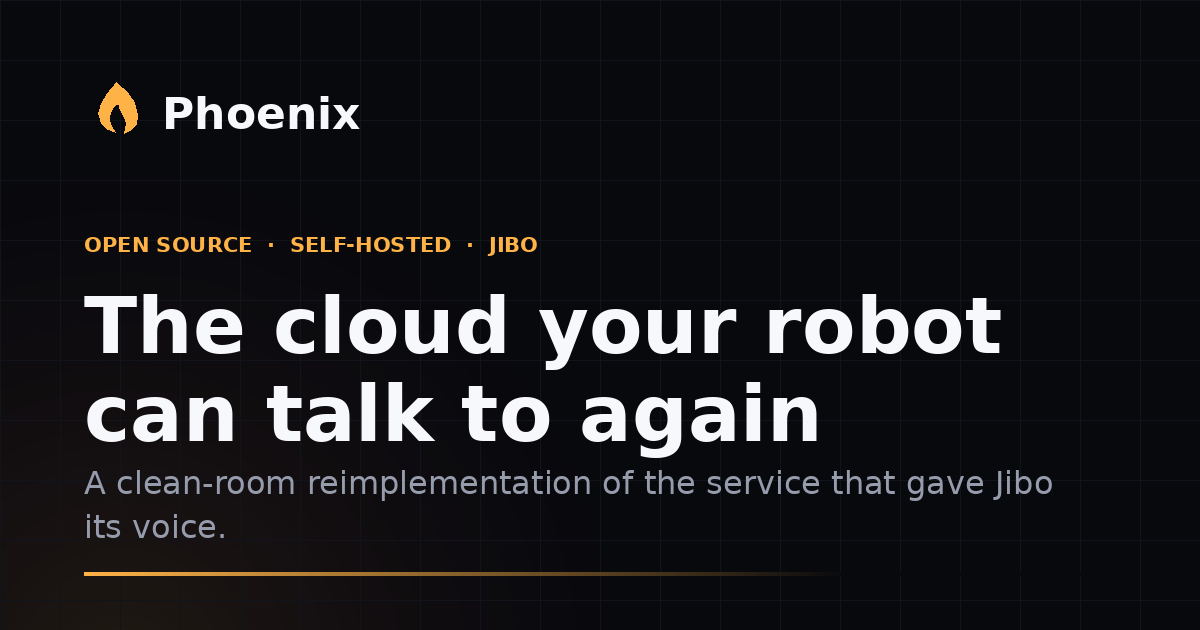
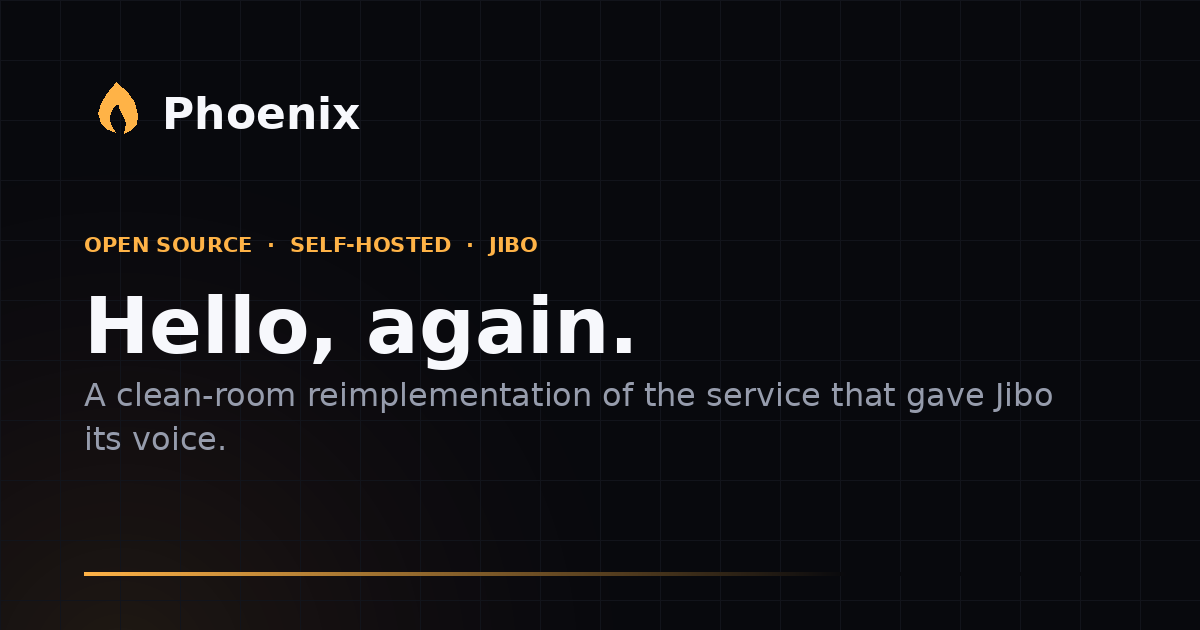
Refresh portal branding and social card to Hello, again.

Changed region(s): [[0.0617, 0.4524, 0.8942, 0.7841], [0.0617, 0.8143, 0.185, 0.8746]]

diff --git a/packages/account/portal/index.html b/packages/account/portal/index.html
@@ -1,9 +1,9 @@
 <!DOCTYPE html>
-<html lang="en" data-title-template="%s — the cloud your robot can talk to again" data-brand-description>
+<html lang="en" data-title-template="%s — Hello, again." data-brand-description>
 <head>
 <meta charset="utf-8" />
 <meta name="viewport" content="width=device-width, initial-scale=1, viewport-fit=cover" />
-<title>Phoenix — the cloud your robot can talk to again</title>
+<title>Phoenix — Hello, again.</title>
 <meta name="color-scheme" content="dark light" />
 <link rel="icon" href="/assets/favicon.svg" type="image/svg+xml" />
 <link rel="manifest" href="/manifest.webmanifest" />
@@ -31,21 +31,21 @@
 
 <meta property="og:type" content="website" />
 <meta property="og:site_name" content="Phoenix" />
-<meta property="og:title" content="Phoenix — the cloud your robot can talk to again" />
+<meta property="og:title" content="Phoenix — Hello, again." />
 <meta property="og:description" content="A clean-room reimplementation of the cloud service that gave Jibo its voice. Open source, self-hosted, and running on hardware you own." />
 <meta property="og:url" content="%SITE_URL%/" />
-<meta property="og:image" content="%SITE_URL%/assets/og.png" />
+<meta property="og:image" content="%SITE_URL%/assets/og.png?v=hello-again" />
 <meta property="og:image:type" content="image/png" />
 <meta property="og:image:width" content="1200" />
 <meta property="og:image:height" content="630" />
-<meta property="og:image:alt" content="Phoenix — the cloud your robot can talk to again" />
+<meta property="og:image:alt" content="Phoenix — Hello, again." />
 <meta property="og:locale" content="en_US" />
 
 <meta name="twitter:card" content="summary_large_image" />
-<meta name="twitter:title" content="Phoenix — the cloud your robot can talk to again" />
+<meta name="twitter:title" content="Phoenix — Hello, again." />
 <meta name="twitter:description" content="A clean-room reimplementation of the cloud service that gave Jibo its voice. Open source, self-hosted, and running on hardware you own." />
-<meta name="twitter:image" content="%SITE_URL%/assets/og.png" />
-<meta name="twitter:image:alt" content="Phoenix — the cloud your robot can talk to again" />
+<meta name="twitter:image" content="%SITE_URL%/assets/og.png?v=hello-again" />
+<meta name="twitter:image:alt" content="Phoenix — Hello, again." />
 
 <meta name="theme-color" content="#08090d" media="(prefers-color-scheme: dark)" />
 <meta name="theme-color" content="#fbfbfd" media="(prefers-color-scheme: light)" />

diff --git a/packages/account/portal/app.html b/packages/account/portal/app.html
@@ -34,18 +34,18 @@
 <meta property="og:title" content="Console — Phoenix" />
 <meta property="og:description" content="Sign in to manage your robot, loops and updates." />
 <meta property="og:url" content="%SITE_URL%/app" />
-<meta property="og:image" content="%SITE_URL%/assets/og.png" />
+<meta property="og:image" content="%SITE_URL%/assets/og.png?v=hello-again" />
 <meta property="og:image:type" content="image/png" />
 <meta property="og:image:width" content="1200" />
 <meta property="og:image:height" content="630" />
-<meta property="og:image:alt" content="Phoenix — the cloud your robot can talk to again" />
+<meta property="og:image:alt" content="Phoenix — Hello, again." />
 <meta property="og:locale" content="en_US" />
 
 <meta name="twitter:card" content="summary_large_image" />
 <meta name="twitter:title" content="Console — Phoenix" />
 <meta name="twitter:description" content="Sign in to manage your robot, loops and updates." />
-<meta name="twitter:image" content="%SITE_URL%/assets/og.png" />
-<meta name="twitter:image:alt" content="Phoenix — the cloud your robot can talk to again" />
+<meta name="twitter:image" content="%SITE_URL%/assets/og.png?v=hello-again" />
+<meta name="twitter:image:alt" content="Phoenix — Hello, again." />
 
 <meta name="theme-color" content="#08090d" media="(prefers-color-scheme: dark)" />
 <meta name="theme-color" content="#fbfbfd" media="(prefers-color-scheme: light)" />
@@ -289,7 +289,7 @@
       </a>
 
       <div>
-        <h2 data-brand="tagline">The cloud Jibo can talk to again.</h2>
+        <h2 data-brand="tagline">Hello, again.</h2>
         <p data-brand="description">
           A ground-up reimplementation of the cloud service that gave Jibo its voice — self-hosted,
           open, and running on hardware you own.

diff --git a/packages/account/portal/privacy.html b/packages/account/portal/privacy.html
@@ -29,18 +29,18 @@
 <meta property="og:title" content="Privacy — Phoenix" />
 <meta property="og:description" content="What a Phoenix installation stores, where it stays, and who can see it." />
 <meta property="og:url" content="%SITE_URL%/privacy" />
-<meta property="og:image" content="%SITE_URL%/assets/og.png" />
+<meta property="og:image" content="%SITE_URL%/assets/og.png?v=hello-again" />
 <meta property="og:image:type" content="image/png" />
 <meta property="og:image:width" content="1200" />
 <meta property="og:image:height" content="630" />
-<meta property="og:image:alt" content="Phoenix — the cloud your robot can talk to again" />
+<meta property="og:image:alt" content="Phoenix — Hello, again." />
 <meta property="og:locale" content="en_US" />
 
 <meta name="twitter:card" content="summary_large_image" />
 <meta name="twitter:title" content="Privacy — Phoenix" />
 <meta name="twitter:description" content="What a Phoenix installation stores, where it stays, and who can see it." />
-<meta name="twitter:image" content="%SITE_URL%/assets/og.png" />
-<meta name="twitter:image:alt" content="Phoenix — the cloud your robot can talk to again" />
+<meta name="twitter:image" content="%SITE_URL%/assets/og.png?v=hello-again" />
+<meta name="twitter:image:alt" content="Phoenix — Hello, again." />
 
 <meta name="theme-color" content="#08090d" media="(prefers-color-scheme: dark)" />
 <meta name="theme-color" content="#fbfbfd" media="(prefers-color-scheme: light)" />

diff --git a/packages/account/portal/security.html b/packages/account/portal/security.html
@@ -29,18 +29,18 @@
 <meta property="og:title" content="Security — Phoenix" />
 <meta property="og:description" content="How Phoenix handles credentials, transport security and robot trust." />
 <meta property="og:url" content="%SITE_URL%/security" />
-<meta property="og:image" content="%SITE_URL%/assets/og.png" />
+<meta property="og:image" content="%SITE_URL%/assets/og.png?v=hello-again" />
 <meta property="og:image:type" content="image/png" />
 <meta property="og:image:width" content="1200" />
 <meta property="og:image:height" content="630" />
-<meta property="og:image:alt" content="Phoenix — the cloud your robot can talk to again" />
+<meta property="og:image:alt" content="Phoenix — Hello, again." />
 <meta property="og:locale" content="en_US" />
 
 <meta name="twitter:card" content="summary_large_image" />
 <meta name="twitter:title" content="Security — Phoenix" />
 <meta name="twitter:description" content="How Phoenix handles credentials, transport security and robot trust." />
-<meta name="twitter:image" content="%SITE_URL%/assets/og.png" />
-<meta name="twitter:image:alt" content="Phoenix — the cloud your robot can talk to again" />
+<meta name="twitter:image" content="%SITE_URL%/assets/og.png?v=hello-again" />
+<meta name="twitter:image:alt" content="Phoenix — Hello, again." />
 
 <meta name="theme-color" content="#08090d" media="(prefers-color-scheme: dark)" />
 <meta name="theme-color" content="#fbfbfd" media="(prefers-color-scheme: light)" />

diff --git a/packages/account/portal/terms.html b/packages/account/portal/terms.html
@@ -29,18 +29,18 @@
 <meta property="og:title" content="Terms of use — Phoenix" />
 <meta property="og:description" content="The terms that apply to this Phoenix instance." />
 <meta property="og:url" content="%SITE_URL%/terms" />
-<meta property="og:image" content="%SITE_URL%/assets/og.png" />
+<meta property="og:image" content="%SITE_URL%/assets/og.png?v=hello-again" />
 <meta property="og:image:type" content="image/png" />
 <meta property="og:image:width" content="1200" />
 <meta property="og:image:height" content="630" />
-<meta property="og:image:alt" content="Phoenix — the cloud your robot can talk to again" />
+<meta property="og:image:alt" content="Phoenix — Hello, again." />
 <meta property="og:locale" content="en_US" />
 
 <meta name="twitter:card" content="summary_large_image" />
 <meta name="twitter:title" content="Terms of use — Phoenix" />
 <meta name="twitter:description" content="The terms that apply to this Phoenix instance." />
-<meta name="twitter:image" content="%SITE_URL%/assets/og.png" />
-<meta name="twitter:image:alt" content="Phoenix — the cloud your robot can talk to again" />
+<meta name="twitter:image" content="%SITE_URL%/assets/og.png?v=hello-again" />
+<meta name="twitter:image:alt" content="Phoenix — Hello, again." />
 
 <meta name="theme-color" content="#08090d" media="(prefers-color-scheme: dark)" />
 <meta name="theme-color" content="#fbfbfd" media="(prefers-color-scheme: light)" />

diff --git a/packages/account/portal/404.html b/packages/account/portal/404.html
@@ -29,18 +29,18 @@
 <meta property="og:title" content="Not found — Phoenix" />
 <meta property="og:description" content="That page does not exist." />
 <meta property="og:url" content="%SITE_URL%/404" />
-<meta property="og:image" content="%SITE_URL%/assets/og.png" />
+<meta property="og:image" content="%SITE_URL%/assets/og.png?v=hello-again" />
 <meta property="og:image:type" content="image/png" />
 <meta property="og:image:width" content="1200" />
 <meta property="og:image:height" content="630" />
-<meta property="og:image:alt" content="Phoenix — the cloud your robot can talk to again" />
+<meta property="og:image:alt" content="Phoenix — Hello, again." />
 <meta property="og:locale" content="en_US" />
 
 <meta name="twitter:card" content="summary_large_image" />
 <meta name="twitter:title" content="Not found — Phoenix" />
 <meta name="twitter:description" content="That page does not exist." />
-<meta name="twitter:image" content="%SITE_URL%/assets/og.png" />
-<meta name="twitter:image:alt" content="Phoenix — the cloud your robot can talk to again" />
+<meta name="twitter:image" content="%SITE_URL%/assets/og.png?v=hello-again" />
+<meta name="twitter:image:alt" content="Phoenix — Hello, again." />
 
 <meta name="theme-color" content="#08090d" media="(prefers-color-scheme: dark)" />
 <meta name="theme-color" content="#fbfbfd" media="(prefers-color-scheme: light)" />

diff --git a/packages/account/portal/sw.js b/packages/account/portal/sw.js
@@ -1,7 +1,7 @@
 // Phoenix console service worker. It caches only the static console shell; API
 // data, sessions, branding, and all account content stay network-only.
 
-const CACHE_NAME = 'phoenix-console-shell-v4';
+const CACHE_NAME = 'phoenix-console-shell-v5';
 const APP_SHELL = [
   '/app', '/app.html', '/theme.css', '/console.css', '/app.js', '/pwa.js',
   '/brand.js', '/qr.js', '/map.js', '/manifest.webmanifest', '/assets/favicon.svg',

diff --git a/tools/portal-meta.py b/tools/portal-meta.py
@@ -26,7 +26,7 @@ END = "<!-- social:end -->"
 
 PAGES = {
     "index.html": {
-        "title": "Phoenix — the cloud your robot can talk to again",
+        "title": "Phoenix — Hello, again.",
         "desc": "A clean-room reimplementation of the cloud service that gave Jibo its "
                 "voice. Open source, self-hosted, and running on hardware you own.",
         "path": "/",
@@ -63,7 +63,8 @@ PAGES = {
 
 def social_block(meta):
     """The managed metadata block. %SITE_URL% is substituted by the static server."""
-    img = "%SITE_URL%/assets/og.png"
+    # A new URL lets social scrapers fetch the regenerated card on their next crawl.
+    img = "%SITE_URL%/assets/og.png?v=hello-again"
     url = "%SITE_URL%" + meta["path"]
     robots = "noindex, nofollow" if meta.get("noindex") else "index, follow"
     return f"""{BEGIN}
@@ -80,14 +81,14 @@ def social_block(meta):
 <meta property="og:image:type" content="image/png" />
 <meta property="og:image:width" content="1200" />
 <meta property="og:image:height" content="630" />
-<meta property="og:image:alt" content="Phoenix — the cloud your robot can talk to again" />
+<meta property="og:image:alt" content="Phoenix — Hello, again." />
 <meta property="og:locale" content="en_US" />
 
 <meta name="twitter:card" content="summary_large_image" />
 <meta name="twitter:title" content="{meta['title']}" />
 <meta name="twitter:description" content="{meta['desc']}" />
 <meta name="twitter:image" content="{img}" />
-<meta name="twitter:image:alt" content="Phoenix — the cloud your robot can talk to again" />
+<meta name="twitter:image:alt" content="Phoenix — Hello, again." />
 
 <meta name="theme-color" content="#08090d" media="(prefers-color-scheme: dark)" />
 <meta name="theme-color" content="#fbfbfd" media="(prefers-color-scheme: light)" />

diff --git a/tools/og-card.py b/tools/og-card.py
@@ -21,8 +21,8 @@ ACCENT_LIFT = (255, 208, 138)
 ACCENT_HOT = (255, 84, 112)
 
 out_path = sys.argv[1] if len(sys.argv) > 1 else "og.png"
-title = sys.argv[2] if len(sys.argv) > 2 else "Phoenix"
-subtitle = sys.argv[3] if len(sys.argv) > 3 else "The cloud your robot can talk to again"
+title = sys.argv[2] if len(sys.argv) > 2 else "Hello, again."
+subtitle = sys.argv[3] if len(sys.argv) > 3 else "A clean-room reimplementation of the service that gave Jibo its voice."
 kicker = sys.argv[4] if len(sys.argv) > 4 else "OPEN SOURCE  ·  SELF-HOSTED  ·  JIBO"
 
 

diff --git a/packages/account/portal/README.md b/packages/account/portal/README.md
@@ -61,7 +61,7 @@ Every visible string on the public site, the logo and the accent colour live in
 ```jsonc
 {
   "name": "Phoenix",
-  "tagline": "The cloud Jibo can talk to again.",
+  "tagline": "Hello, again.",
   "logo": "/assets/my-logo.svg",   // optional; replaces the built-in mark
   "accent": "#3b82f6",             // optional; one hex re-skins the product
   "hero": { "title": "…", "body": "…" },
